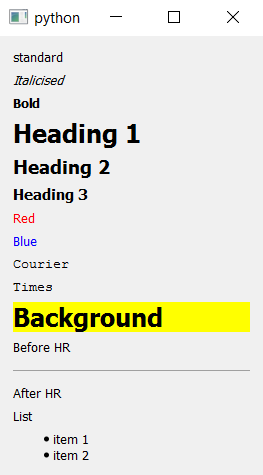
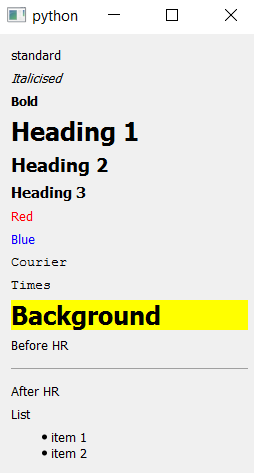
wip

diff --git a/docs/reference_manual-2.md b/docs/reference_manual-2.md
@@ -148,18 +148,35 @@ to call setText(), and then with setTitle().
 
 (Good for QLabel, QPushButton, QLineEdit, QGroupBox and possibly other classes).
 
+### Fonts, Colours, and Text Size
+
+Qt let's you control the font, colour and size of your text on widgets like
+QLabel, QPushButton etc, with HTML 4 inline style markup in the call to 
+*setText()* : http://doc.qt.io/qt-4.8/richtext-html-subset.html
+
+![](media/typography.png)
+
+Which means you can simply include your markup in the text you put in parenthesis:
+
+    h1              QLabel(<h1>Heading 1</h1)
+    h2              QLabel(<h2>Heading 2</h2)
+
+
 ### Using Symbols and Icons on Buttons and Labels
 The strings used by QLabels, QPushButtons etc. are Unicode. And Unicode 
-includes a very wide variety of symbols and graphical icons. Like the ones
-described here for example.
+includes a very wide variety of symbols and graphical icons.
+
+![](media/unicode.png)
+
+**Unicode Symbol References:**
 
 https://en.wikipedia.org/wiki/Miscellaneous_Symbols
 
-See also the official reference: http://unicode.org/charts/#symbols 
+http://unicode.org/charts/#symbols 
 
-These typographic symbols render very much more crisply than image-based icons, 
-because of the anti-aliasing of edges implemented by the font designers. They
-also remove the need to manage image resources.
+These typographic symbols render very much more crisply, and scale better than 
+image-based icons, (because of the anti-aliasing of edges built in by the
+font designers. They also remove the need to manage and deploy image resources.
 
 You can include Unicode characters (or more properly *code-points*) in your
 builder input, using the same notation as you would if you were writing a
@@ -180,20 +197,21 @@ hamburger menu - but a **real** hamburger!)
 
     label       QLabel(\U0001F354)
    
-Using Unicode in text in Qt is dependent on a suitably equipped font being
-available, and chosen (by your Qt program) on the runtime machine.
+> Using Unicode in text in Qt is dependent on a suitably equipped font being
+> available on the runtime machine.
 
-A very convenient font that includes a wide range of symbols for Windows is 
-'Lucida Sans Unicode' because it has been installed by default for all 
-versions of Windows since Windows 98. To get the widest possible symbol
-support try the open-source Code2000 font. 
+> A very convenient font that includes a wide range of symbols for Windows is 
+> 'Lucida Sans Unicode' because it has been installed by default for all 
+> versions of Windows since Windows 98. To get the widest possible symbol
+> support try the open-source Code2000 font. 
 
-You can specify the font from your PySide / PyQt program like this:
+You can specify the font from the builder like this:
 
-    widget = layouts_created.at('page')
-    widget.setStyleSheet(""" * { font-family: "Lucida Sans Unicode"; } """)
+    courier         QLabel(<font face="Courier">Courier</font>)
+
     
-(Or more selectively, for a widget lower in the layout hiearchy.)
+Or of course, you can do it programmatically afterwards by calling 
+*setStyleSheet()* on the widget (or parent).
    
 ## Taking the Input From a File
 
@@ -328,11 +346,3 @@ input, like this:
       
 If you end up with layouts that have widgets bizarrely superimposed - this is the 
 likely reason.
-
-# Experiment with linking to images
-
-line before
-
-before line ![Kiku](media/typography.png) after link
-
-next line
